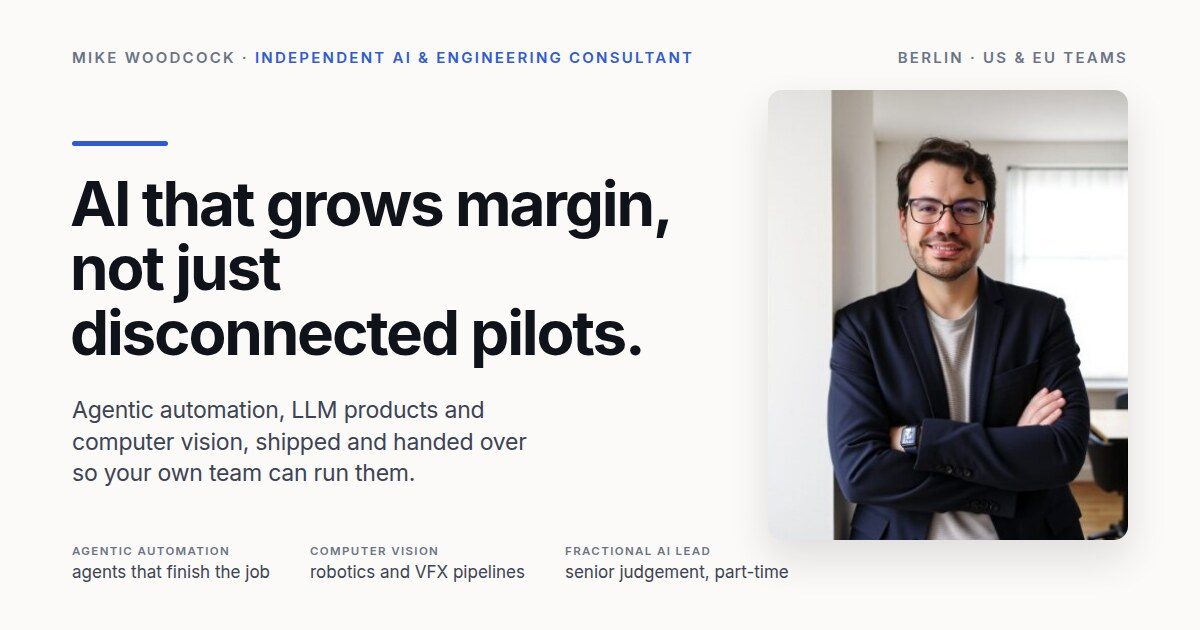
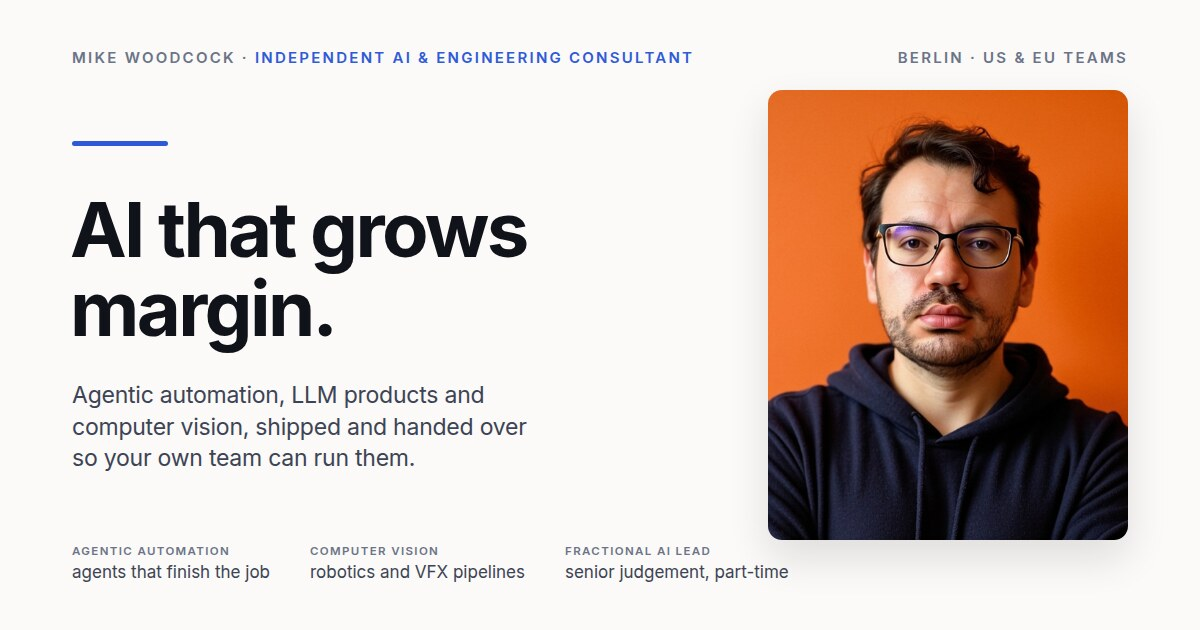
Main headers: 'AI that grows margin.'; share image uses the hoodie portrait from the title slide

Changed region(s): [[0.6167, 0.1206, 0.9558, 0.8746], [0.0617, 0.2714, 0.555, 0.573], [0.0617, 0.6032, 0.4317, 0.7841]]

diff --git a/index.html b/index.html
@@ -7,15 +7,15 @@
 <meta name="description" content="Mike Woodcock — independent AI &amp; engineering consultant. Agentic automation, LLM products and deep learning, shipped to production for startups.">
 <meta property="og:type" content="website">
 <meta property="og:site_name" content="Mike Woodcock">
-<meta property="og:title" content="Mike Woodcock — AI that grows margin, not just disconnected pilots">
+<meta property="og:title" content="Mike Woodcock — AI that grows margin">
 <meta property="og:description" content="Independent AI &amp; engineering consultant. Agentic automation, LLM products and deep learning, shipped and handed over so your own team can run them.">
 <meta property="og:url" content="https://mikew.io/">
 <meta property="og:image" content="https://mikew.io/og.jpg">
 <meta property="og:image:width" content="1200">
 <meta property="og:image:height" content="630">
-<meta property="og:image:alt" content="Mike Woodcock, independent AI and engineering consultant. AI that grows margin, not just disconnected pilots.">
+<meta property="og:image:alt" content="Mike Woodcock, independent AI and engineering consultant. AI that grows margin.">
 <meta name="twitter:card" content="summary_large_image">
-<meta name="twitter:title" content="Mike Woodcock — AI that grows margin, not just disconnected pilots">
+<meta name="twitter:title" content="Mike Woodcock — AI that grows margin">
 <meta name="twitter:description" content="Independent AI &amp; engineering consultant. Agentic automation, LLM products and deep learning, shipped to production for startups.">
 <meta name="twitter:image" content="https://mikew.io/og.jpg">
 <meta name="theme-color" content="#fbfaf8">
@@ -625,7 +625,7 @@ ul.check.good li::before{color:var(--good)}
    <div class="split pics-portrait">
     <div>
     <div class="rule-accent"></div>
-    <h1>AI that grows margin, not just disconnected pilots.</h1>
+    <h1>AI that grows margin.</h1>
     <p class="lead">Independent AI &amp; engineering consultant. Agentic automation, LLM products and computer vision — designed, shipped and handed over so your own team can run them.</p>
     <div class="meta">
       <div><dt>Based</dt><dd>Berlin · CET (UTC+1)</dd></div>
